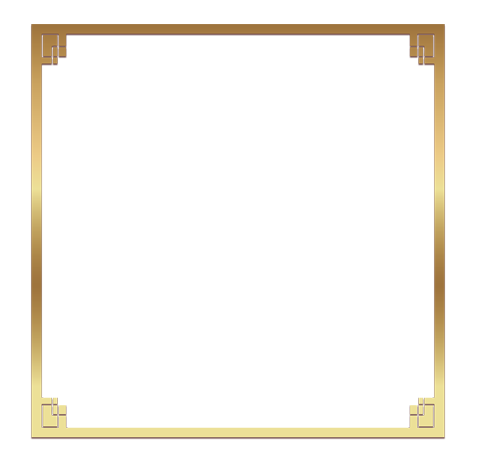
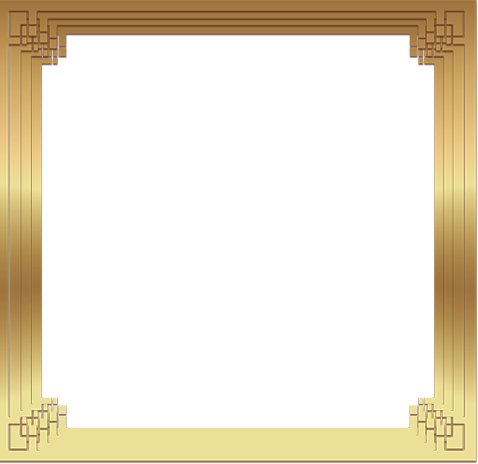
고른 주사위에 황금색 테두리를 치는 코드 업데이트

Changed region(s): [[0.0, 0.0, 1.0, 1.0]]

diff --git a/yahtzee.py b/yahtzee.py
@@ -54,6 +54,10 @@ d5_img = pygame.transform.scale(d5_img, (75,75))
 d6_img = pygame.image.load("yahtzee/dice6.png")
 d6_img = pygame.transform.scale(d6_img, (75,75))
 
+#황금 테두리 이미지
+gold_frame_img = pygame.image.load("yahtzee/gold_frame.png")
+gold_frame_img = pygame.transform.scale(gold_frame_img,(75,75))
+
 #화면 제목
 pygame.display.set_caption("야추")
 
@@ -127,6 +131,20 @@ while running:
     show_dice(dice_list[2], d1_img, d2_img, d3_img, d4_img, d5_img, d6_img, dice_x_pos_list[2], dice_y_pos)
     show_dice(dice_list[3], d1_img, d2_img, d3_img, d4_img, d5_img, d6_img, dice_x_pos_list[3], dice_y_pos)
     show_dice(dice_list[4], d1_img, d2_img, d3_img, d4_img, d5_img, d6_img, dice_x_pos_list[4], dice_y_pos)
+
+    # 주사위 선택 정하기
+    def gold_frame():
+        if dice_selected[0]:
+            screen.blit(gold_frame_img,(dice_x_pos_list[0],dice_y_pos))
+        if dice_selected[1]:
+            screen.blit(gold_frame_img,(dice_x_pos_list[1],dice_y_pos))
+        if dice_selected[2]:
+            screen.blit(gold_frame_img,(dice_x_pos_list[2],dice_y_pos))
+        if dice_selected[3]:
+            screen.blit(gold_frame_img,(dice_x_pos_list[3],dice_y_pos))
+        if dice_selected[4]:
+            screen.blit(gold_frame_img,(dice_x_pos_list[4],dice_y_pos))
+    gold_frame()
 
     #화면 그리기
     pygame.display.update()
